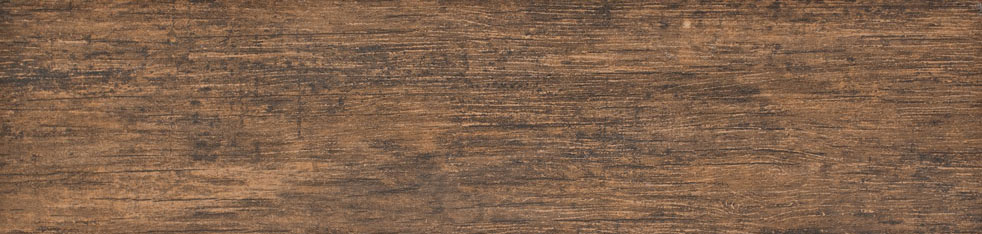
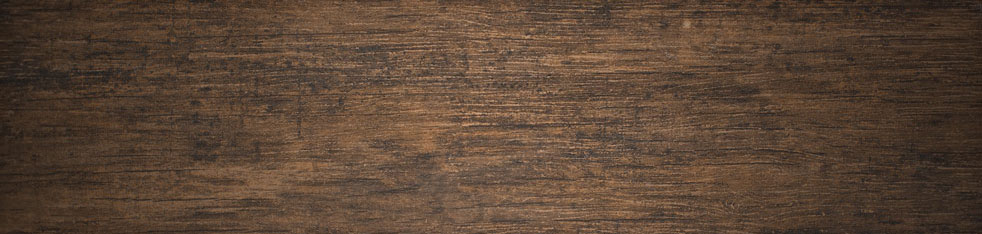
final tutch

diff --git a/css/footer.css b/css/footer.css
@@ -3,14 +3,16 @@
 
 footer{
 	background:#E1FCE1;
-	background-image:linear-gradient(to bottom, #fff, #E1FCE1);
+	background-image:url(../images/wood.jpg);
 	overflow:hidden;
 	padding:.5rem;
 }
 
 footer p{
 	text-align:center;
+	color:#fff;
 }
+
 
 @media only screen and (min-width: 23em){
 	footer p{
@@ -29,13 +31,18 @@ footer p{
 	padding:.25rem;
 }
 
+nav-btm,
+nav-btm,visited{
+	color:#fff;
+}
+
 @media only screen and (min-width: 23em){
 	
 	.nav-btm li{
 		padding:0 .25rem;
-	float:right;
-	display:inline;
-	text-align:start;	
+		float:right;
+		display:inline;
+		text-align:start;	
 	}
 	
 }
@@ -44,6 +51,7 @@ footer p{
 .icon{
 	width:30px;
 	float:right;
+	box-shadow:0 0 10px black;
 }
 @media only screen and (min-width: 23em){
 	.icon{

diff --git a/styleguide/footer.html b/styleguide/footer.html
@@ -9,6 +9,7 @@
 	<link href="../css/search-bar.css" rel="stylesheet">
 	<link href="../css/typography.css" rel="stylesheet">
 	<link href="../css/list-group.css" rel="stylesheet">
+	<link href="../css/header.css" rel="stylesheet">
 </head>
 
 <body>
@@ -22,7 +23,10 @@
 			</ul>
 		</nav>	
 		
-		<p class="micro">©2014Whispering Spirit	</p>
+		<div class="micro">
+			<p>©2014Whispering Spirit	</p>
+		</div>
+		
 		
 		<div>
 			<a href="#"><img  class="icon" src="../images/icons/i-facebook.svg" alt="facebook button"></a>

diff --git a/css/header.css b/css/header.css
@@ -1,6 +1,6 @@
 @charset "UTF-8";
 /* CSS Document */
-/*--------------------------nav-btn----------------------------*/
+/*--------------------------nav-btn small screen-----------------------*/
 
 .nav-btn,
 .nav-btn:link,
@@ -55,7 +55,8 @@
 }
 
 .nav-text-color{
-	color:rgba(159,242,172,1.00);	
+	color:rgba(159,242,172,1.00);
+	color:rgba(216,216,216,1.00)	
 }
 .nav-text-color,
 .nav-text-color:hover,

diff --git a/css/common.css b/css/common.css
@@ -3,5 +3,5 @@
 
 html{
 	margin:.5rem auto;
-	max-width:800px;
+	max-width:600px;
 }
